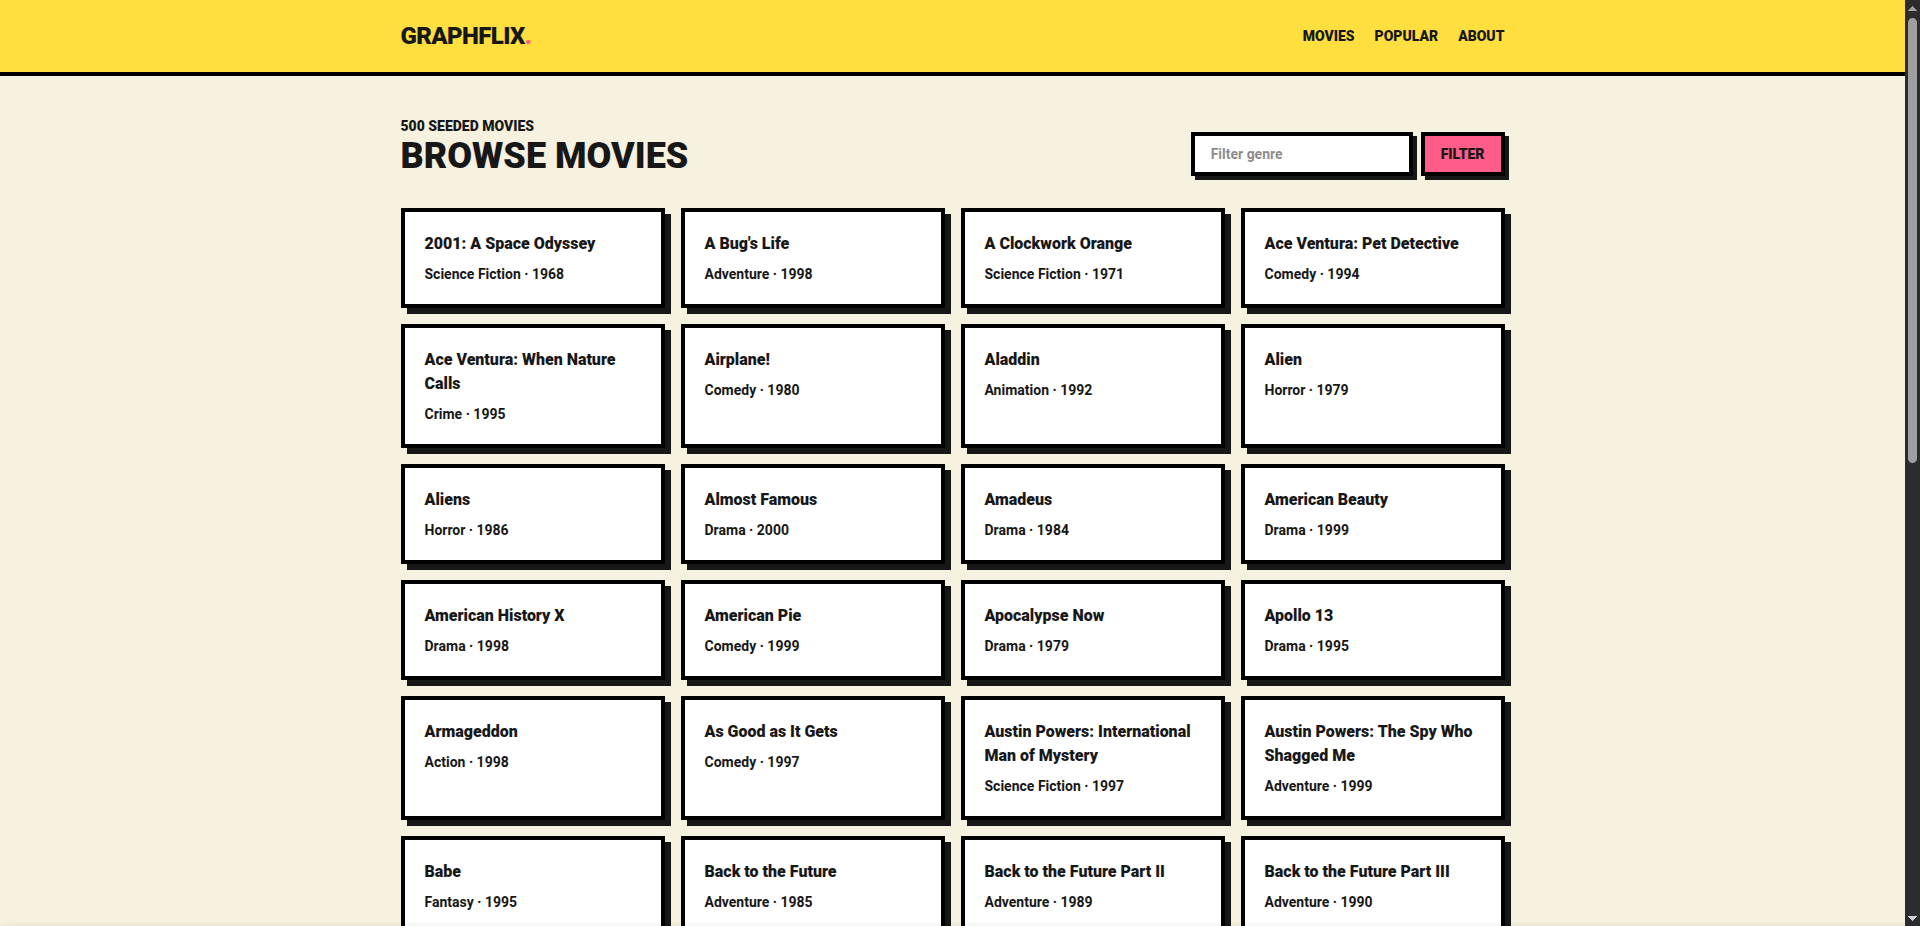
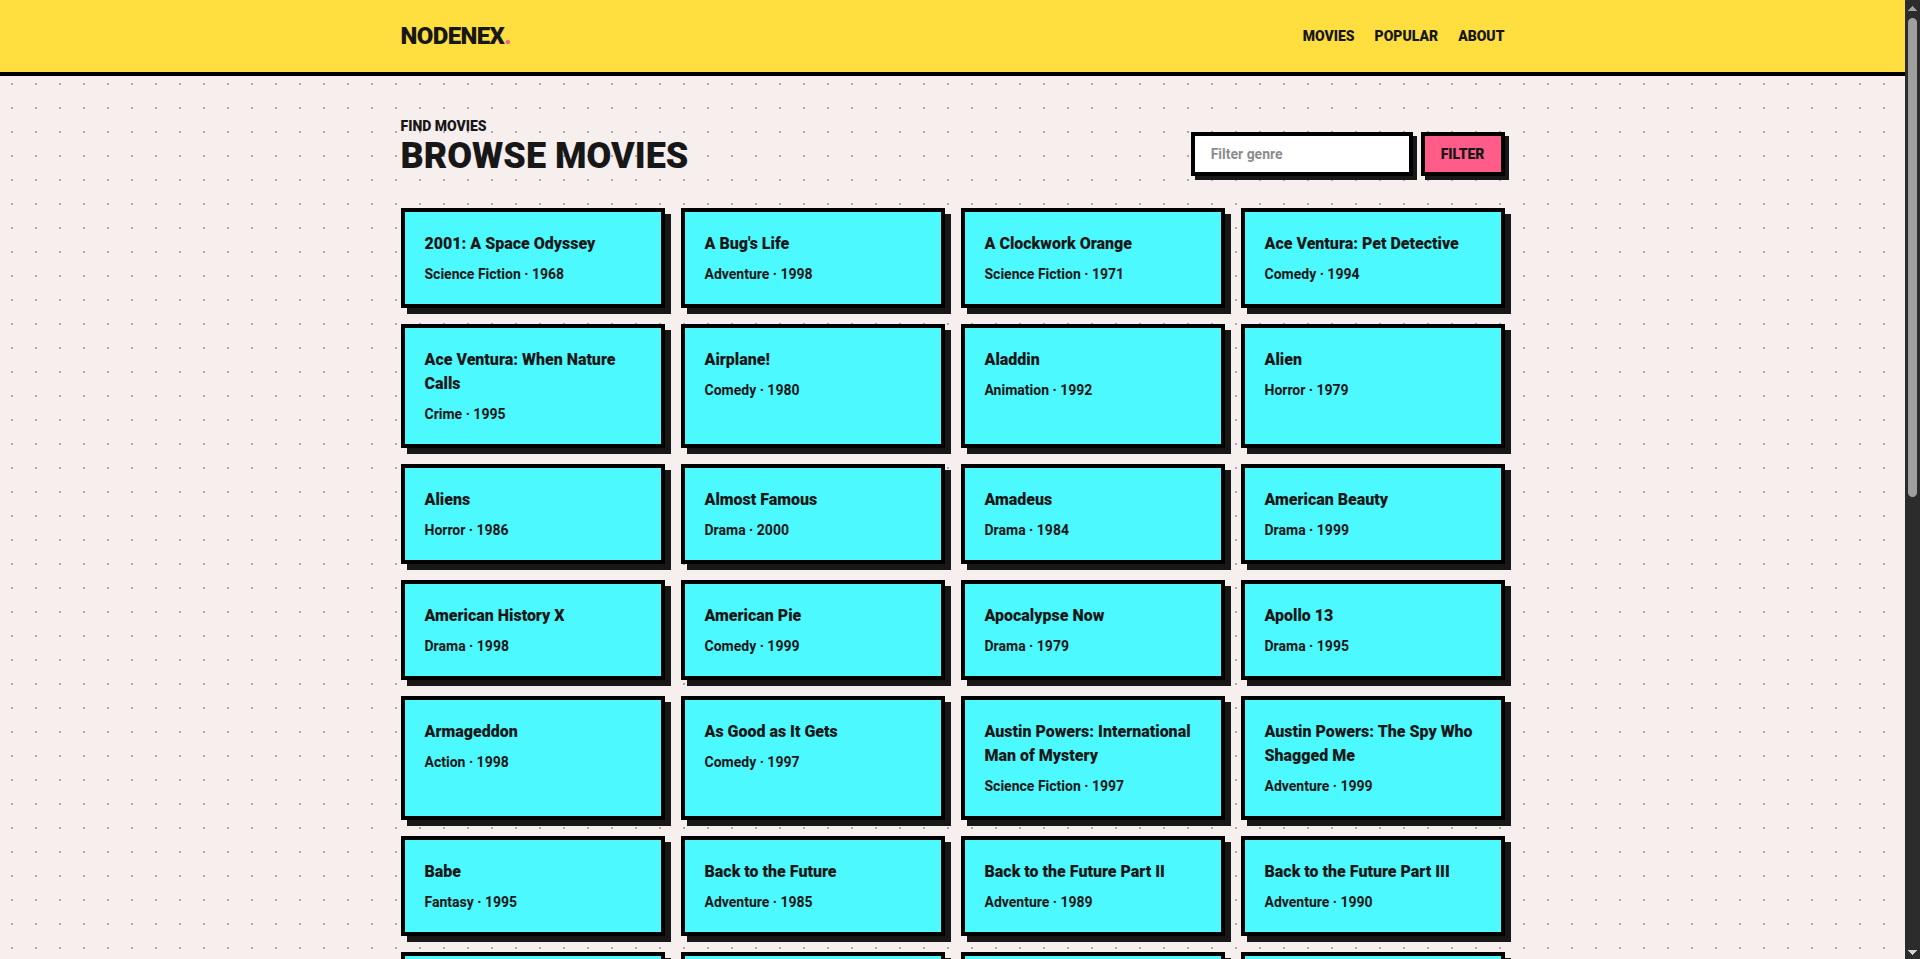
Renamed the app due to similarities with other projects

diff --git a/resources/views/layouts/app.blade.php b/resources/views/layouts/app.blade.php
@@ -3,7 +3,7 @@
 <head>
     <meta charset="utf-8">
     <meta name="viewport" content="width=device-width, initial-scale=1">
-    <title>{{ $title ?? 'Graphflix' }}</title>
+    <title>{{ $title ?? 'Nodenex' }}</title>
     <link rel="icon" type="image/png" sizes="192x192" href="{{ asset('favicon-192.png') }}">
     @if (file_exists(public_path('hot')) || file_exists(public_path('build/manifest.json')))
         @vite(['resources/css/app.css', 'resources/js/app.js'])
@@ -18,7 +18,7 @@
     </div>
     <nav class="border-b-4 border-black bg-[#ffdf3f]">
         <div class="mx-auto flex max-w-6xl items-center justify-between px-6 py-5">
-            <a href="{{ url('/') }}" class="text-2xl font-black uppercase tracking-tight">Graphflix<span class="text-[#ff5c8a]">.</span></a>
+            <a href="{{ url('/') }}" class="text-2xl font-black uppercase tracking-tight">Nodenex<span class="text-[#ff5c8a]">.</span></a>
             @if (!request()->routeIs('landing'))
             <div class="flex gap-5 text-sm font-black uppercase">
                 <a href="{{ url('/home') }}" class="hover:underline">Movies</a>
@@ -41,8 +41,8 @@
         .page-loading { display: none; position: fixed; inset: 0; z-index: 50; align-items: center; justify-content: center; background: rgba(247, 241, 223, .88); }
         .page-loading.is-visible { display: flex; }
         .page-loading__card { border: 4px solid #171717; background: #ffdf3f; box-shadow: 6px 6px 0 #171717; padding: 1rem 1.25rem; font-weight: 900; text-transform: uppercase; }
-        .page-loading__spinner { display: inline-block; width: 1rem; height: 1rem; margin-right: .5rem; border: 3px solid #171717; border-right-color: transparent; border-radius: 9999px; animation: graphflix-spin .7s linear infinite; vertical-align: -.15rem; }
-        @keyframes graphflix-spin { to { transform: rotate(360deg); } }
+        .page-loading__spinner { display: inline-block; width: 1rem; height: 1rem; margin-right: .5rem; border: 3px solid #171717; border-right-color: transparent; border-radius: 9999px; animation: nodenex-spin .7s linear infinite; vertical-align: -.15rem; }
+        @keyframes nodenex-spin { to { transform: rotate(360deg); } }
     </style>
     <script>
         (() => {

diff --git a/resources/views/about.blade.php b/resources/views/about.blade.php
@@ -4,9 +4,9 @@
 <div class="flex flex-col gap-8 lg:items-stretch lg:flex-row xl:gap-10">
     <div class="min-w-0 lg:flex lg:w-[56%] lg:flex-col xl:w-3/5">
         <section class="lg:flex-1">
-        <p class="text-sm font-black uppercase tracking-widest">How Graphflix works</p>
-        <h1 class="mt-2 text-4xl font-black uppercase sm:text-5xl">About Graphflix</h1>
-        <p class="mt-4 max-w-xl text-base font-bold leading-7 sm:text-lg">Graphflix helps you discover movies by looking at the people and viewing choices that connect them.</p>
+        <p class="text-sm font-black uppercase tracking-widest">How Nodenex works</p>
+        <h1 class="mt-2 text-4xl font-black uppercase sm:text-5xl">About Nodenex</h1>
+        <p class="mt-4 max-w-xl text-base font-bold leading-7 sm:text-lg">Nodenex helps you discover movies by looking at the people and viewing choices that connect them.</p>
 
         <div class="mt-6 grid gap-4">
             <article class="border-4 border-black bg-white p-5 shadow-[5px_5px_0_#171717] sm:p-6">
@@ -31,7 +31,7 @@
 
             <article class="border-4 border-black bg-[#ffb7d1] p-5 shadow-[5px_5px_0_#171717] sm:p-6">
                 <h2 class="text-xl font-black uppercase sm:text-2xl">A note about SQL</h2>
-                <p class="mt-2 text-base font-bold leading-7 sm:text-lg">Traditional SQL databases are excellent for many jobs. Graphflix uses a connection-focused database here because following several layers of movie and viewer relationships stays easier to understand as the search grows.</p>
+                <p class="mt-2 text-base font-bold leading-7 sm:text-lg">Traditional SQL databases are excellent for many jobs. Nodenex uses a connection-focused database here because following several layers of movie and viewer relationships stays easier to understand as the search grows.</p>
             </article>
         </div>
         </section>

diff --git a/README.md b/README.md
@@ -1,12 +1,12 @@
-# Graphflix
+# Nodenex
 
-Graphflix is a movie recommendation application backed by CognoDB. Laravel
+Nodenex is a movie recommendation application backed by CognoDB. Laravel
 handles HTTP requests and the `GraphService` sends parameterized openCypher
 queries through the Laudis Neo4j Bolt client.
 
 ## Why a graph database?
 
-Graphflix's useful question is not just “which movies have this genre?” It is
+Nodenex's useful question is not just “which movies have this genre?” It is
 “which movies are connected to this movie through actors and directors within a
 bounded number of hops?” That is a relationship-first question, which is where
 a graph database is a natural fit.
@@ -44,12 +44,12 @@ performs well.
 A graph stores the adjacency directly, so traversal follows the relationships
 that actually exist. CognoDB can return hop distance, path count, and the
 connecting actor or director as part of the query result, without requiring the
-application to reconstruct the path. The advantage Graphflix demonstrates is
+application to reconstruct the path. The advantage Nodenex demonstrates is
 therefore primarily about modeling and query complexity, with performance
 benefits for relationship-heavy workloads depending on the graph size,
 indexes, and query plan.
 
-Graphflix demonstrates this advantage with the same traversal pattern across
+Nodenex demonstrates this advantage with the same traversal pattern across
 movie networks and user taste networks. The graph is not being used merely as
 another place to store movie rows; it is used to answer questions about
 connections that become awkward to model as a growing collection of joins.
@@ -65,7 +65,7 @@ Create a free `c0` instance and choose a region. Copy the connection details
 immediately: CognoDB provides a `bolt+s://` URI, the username `cognodb`, and a
 generated password.
 
-### 2. Configure Graphflix
+### 2. Configure Nodenex
 
 Install PHP 8.3+, Composer, Node.js/npm, and Python 3.10+. Then from the
 project directory run:
@@ -175,7 +175,7 @@ typed `WATCHED`, `ACTED_IN`, and `DIRECTED` relationships. Movie properties are
   helped surface a movie.
 - The Popular page now includes a list of viewers whose profiles can be opened
   for personalized recommendations.
-- The About page has a responsive two-column layout: the Graphflix overview is
+- The About page has a responsive two-column layout: the Nodenex overview is
   on the left and a dictionary is on the right. The dictionary explains labels
   such as “shared cast member,” “match strength,” and “connections away” in
   plain language.
@@ -188,53 +188,37 @@ be explored recursively. Empty recommendation sections show an explicit empty
 state. CognoDB failures are retried, logged, and shown as a safe connection
 message instead of exposing credentials or stack traces.
 
-## Screenshots
-
-The screenshots below show the main user journey through the application.
-
-### 1. Landing page
-
-The landing page introduces Graphflix and sends a visitor directly to the movie
-browser. The bright yellow navigation and blue hero panel establish the
-Neo-Brutalist visual language used throughout the app.
-
-![Graphflix landing page](docs/screenshots/app_screenshot_1.png)
-
-### 2. Browse movies
-
-The browse screen displays the 500 seeded movies as clickable white cards. Each
-card shows the title, genre, and release year, while the genre field filters the
-available movie set.
-
-![Graphflix movie browser](docs/screenshots/app_screenshot_2.png)
-
-### 3. Popular movies
-
-The Popular page ranks movies by the number of users who watched them. Orange
-cards make the ranking distinct from the general movie browser, and selecting
-any card opens the same movie detail and recommendation flow.
-
-![Graphflix popular movies](docs/screenshots/app_screenshot_3.png)
-
-### 4. Movie details and recommendations
-
-The movie detail page shows the selected movie's genre, year, actors, and
-director, followed by two graph-powered sections. The first contains related
-recommendations using cast and director connections, and the second shows
-other movies connected through actors. Each yellow recommendation card is
-clickable and explains the connection, match strength, and viewer support when
-those details are available.
-
-![Graphflix movie recommendations](docs/screenshots/app_screenshot_4.png)
-
-When a page is navigating to a CognoDB-backed result, Graphflix displays a
+When a page is navigating to a CognoDB-backed result, Nodenex displays a
 full-page “Loading graph data...” state. This keeps the interface clear while
 the server performs the graph query and is also used when submitting the genre
 filter form.
 
+## Screenshots
+
+The screenshots below show the main Nodenex user journey. They use the updated
+Nodenex branding and the current responsive visual style.
+
+### Landing page
+
+![Nodenex landing page](docs/screenshots/app_screenshot_1.png)
+
+### Browse movies
+
+![Nodenex movie browser](docs/screenshots/app_screenshot_2.png)
+
+### Popular movies
+
+![Nodenex popular movies](docs/screenshots/app_screenshot_3.png)
+
+### Movie details and recommendations
+
+![Nodenex movie recommendations](docs/screenshots/app_screenshot_4.png)
+
+![Nodenex movie recommendations continued](docs/screenshots/app_screenshot_4_1.png)
+
 ## Cypher queries that exercise the graph
 
-Graphflix's core behavior is driven by Cypher queries that traverse the graph,
+Nodenex's core behavior is driven by Cypher queries that traverse the graph,
 not by isolated movie lookups. All queries are parameterized; no user input is
 concatenated into Cypher.
 
